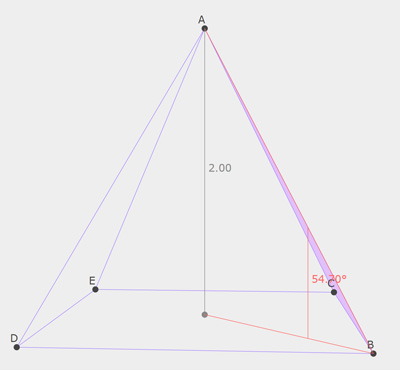
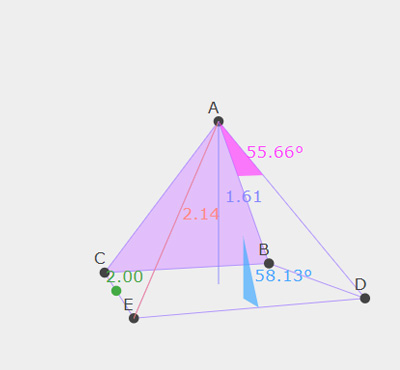
added 3d graphing, updated graph api, updated all samples, added more 3D samples.

diff --git a/ganja.js b/ganja.js
@@ -86,18 +86,18 @@
       static describe() { console.log(`Basis\n${basis}\nRemap${JSON.stringify(brm)}\nDual\n${drm}\nMetric\n${metric.slice(1,1+tot)}\nCayley\n${mulTable.map(x=>(x.map(x=>('           '+x).slice(-2-tot)))).join('\n')}`); }    
       toString() { var res=[]; for (var i=0; i<basis.length; i++) if (Math.abs(this[i])>1e-10) res.push(((this[i]==1)&&i?'':((this[i]==-1)&&i)?'-':(this[i].toFixed(10)*1))+(i==0?'':tot==1?'i':basis[i].replace('e','e_'))); return res.join('+').replace(/\+-/g,'-')||'0'; }
     // Parse expressions, translate functions and render graphs.
-      static graph(f,cvs,ww,hh) { if (!f) return; var origf=f;
+      static graph(f,options) { if (!f) return; var origf=f; options=options||{}; var ww=options.width, hh=options.height, cvs=options.canvas, project=(o)=>{ while (o.call) o=o(); return (tot==4 && (o.length==16))?(new Element([0,0,0,0,0,0,0,0,0,0,0,-5,0,0,1,0])).Vee((options.camera)?(options.camera.Mul(o).Mul(options.camera.Conjugate)):o).Wedge(new Element([0,-2,0,0,1,0,0,0,0,0,0,0,0,0,0,0])):o};
       // p2d SVG points/lines/rotations/translations/labels . 
-        if (!(f instanceof Function) || f.length===0) { var lx,ly,lr,color,res,anim=false;
+        if (!(f instanceof Function) || f.length===0) { var lx,ly,lr,color,res,anim=false,to2d=(tot==3)?[0,1,2,3,4,5,6,7]:[0,7,9,10,13,12,14,15];
           if (f instanceof Function) f=f();if (!(f instanceof Array)) f=[].concat.apply([],Object.keys(f).map((k)=>typeof f[k]=='number'?[f[k]]:[f[k],k])); 
           function build(f,or) { if (or && f && f instanceof Function) f=f(); lx=-2;ly=-1.85;lr=0;color='#444'; return new DOMParser().parseFromString(`<SVG viewBox="-2 -${2*(hh/ww||1)} 4 ${4*(hh/ww||1)}" style="width:${ww||512}px; height:${hh||512}px; background-color:#eee; user-select:none">
-           ${f.map((o,oidx)=>{  if(o==Element.graph && or!==false) { anim=true; return requestAnimationFrame(()=>{var r=build(origf,(!res)||(document.body.contains(res))).innerHTML; if (res) res.innerHTML=r; });} while (o instanceof Function) o=o(); if (o===undefined) return;
-             if (o instanceof Array)  { lx=ly=lr=0; o=o.map((x)=>x.call?x():x); o.forEach((o)=>{lx+=((drm[1]==6)?-1:1)*o[drm[2]]/o[drm[1]];ly+=o[drm[3]]/o[drm[1]]});lx/=o.length;ly/=o.length; return o.length>2?`<POLYGON STYLE="pointer-events:none; fill:${color};opacity:0.7" points="${o.map(o=>((drm[1]==6)?-1:1)*o[drm[2]]/o[drm[1]]+','+o[drm[3]]/o[drm[1]]+' ')}"/>`:`<LINE style="pointer-events:none" x1=${((drm[1]==6)?-1:1)*o[0][drm[2]]/o[0][drm[1]]} y1=${o[0][drm[3]]/o[0][drm[1]]} x2=${((drm[1]==6)?-1:1)*o[1][drm[2]]/o[1][drm[1]]} y2=${o[1][drm[3]]/o[1][drm[1]]} stroke-width="0.005" stroke="${color||'#888'}"/>`; }
+           ${f.map((o,oidx)=>{  if((o==Element.graph && or!==false)||(oidx==0&&options.animate&&or!==false)) { anim=true; requestAnimationFrame(()=>{var r=build(origf,(!res)||(document.body.contains(res))).innerHTML; if (res) res.innerHTML=r; }); if (!options.animate) return; } while (o instanceof Function) o=o(); o=(o instanceof Array)?o.map(project):project(o); if (o===undefined) return; 
+             if (o instanceof Array)  { lx=ly=lr=0; o=o.map((x)=>x.call?x():x); o.forEach((o)=>{lx+=((drm[1]==6||drm[1]==14)?-1:1)*o[drm[2]]/o[drm[1]];ly+=o[drm[3]]/o[drm[1]]});lx/=o.length;ly/=o.length; return o.length>2?`<POLYGON STYLE="pointer-events:none; fill:${color};opacity:0.7" points="${o.map(o=>((drm[1]==6||drm[1]==14)?-1:1)*o[drm[2]]/o[drm[1]]+','+o[drm[3]]/o[drm[1]]+' ')}"/>`:`<LINE style="pointer-events:none" x1=${((drm[1]==6||drm[1]==14)?-1:1)*o[0][drm[2]]/o[0][drm[1]]} y1=${o[0][drm[3]]/o[0][drm[1]]} x2=${((drm[1]==6||drm[1]==14)?-1:1)*o[1][drm[2]]/o[1][drm[1]]} y2=${o[1][drm[3]]/o[1][drm[1]]} stroke-width="0.005" stroke="${color||'#888'}"/>`; }
              if (typeof o =='string') { var res2=(o[0]=='_')?'':`<text x="${lx}" y="${ly}" font-family="Verdana" font-size="0.1" style="pointer-events:none" fill="${color||'#333'}" transform="rotate(${lr},0,0)">&nbsp;${o}&nbsp;</text>`; ly+=0.1; return res2; }
-             if (typeof o =='number') { color='#'+(o+(1<<25)).toString(16).slice(-6); return ''; }o=o.Normalized; var oi='test';
-             if (o.Blade(2).Length>0.001) { lx=o[drm[2]]/o[drm[1]]; if (drm[1]==6) lx*=-1; ly=o[drm[3]]/o[drm[1]]; lr=0;  var res2=`<CIRCLE onmousedown="this.parentElement.sel=${oidx}" cx="${lx}" cy="${ly}" r="0.03" fill="${color||'green'}"/>`; ly-=0.05; lx-=0.1; return res2; }
-             if (o.Blade(1).Length>0.001) { lx=0.5; ly=-o[1]; lr=-Math.atan2(o[2],o[3])/Math.PI*180; var res2=`<LINE style="pointer-events:none" x1=-10 y1=${ly} x2=10 y2=${ly} stroke-width="0.005" stroke="${color||'#888'}" transform="rotate(${lr},0,0)"/>`; ly-=0.05; return res2; }
-             if (o.e02**2+o.e01**2>0.001) { lr=0; ly+=0.05; lx+=0.1; var res2=`<LINE style="pointer-events:none" x1=${lx} y1=${ly} x2=${lx-o.e02} y2=${ly+o.e01} stroke-width="0.005" stroke="${color||'#888'}"/>`; ly=ly+o.e01/4*3-0.05; lx=lx-o.e02/4*3; console.log('a',lx,ly); return res2; }
+             if (typeof o =='number') { color='#'+(o+(1<<25)).toString(16).slice(-6); return ''; } /*o=o.Normalized;*/ var oi='test';
+             if (o[to2d[6]]**2        >0.001) { lx=o[drm[2]]/o[drm[1]]; if (drm[1]==6||drm[1]==14) lx*=-1; ly=o[drm[3]]/o[drm[1]]; lr=0;  var res2=`<CIRCLE onmousedown="this.parentElement.sel=${oidx}" cx="${lx}" cy="${ly}" r="0.03" fill="${color||'green'}"/>`; ly-=0.05; lx-=0.1; return res2; }
+             if (o[to2d[2]]**2+o[to2d[3]]**2>0.001) { var l=Math.sqrt(o[to2d[2]]**2+o[to2d[3]]**2); o[to2d[2]]/=l; o[to2d[3]]/=l; o[to2d[1]]/=l; lx=0.5; ly=((drm[1]==6)?-1:-1)*o[to2d[1]]; lr=-Math.atan2(o[to2d[2]],o[to2d[3]])/Math.PI*180; var res2=`<LINE style="pointer-events:none" x1=-10 y1=${ly} x2=10 y2=${ly} stroke-width="0.005" stroke="${color||'#888'}" transform="rotate(${lr},0,0)"/>`; ly-=0.05; return res2; }
+             if (o[to2d[4]]**2+o[to2d[5]]**2>0.001) { lr=0; ly+=0.05; lx+=0.1; var res2=`<LINE style="pointer-events:none" x1=${lx} y1=${ly} x2=${lx-o.e02} y2=${ly+o.e01} stroke-width="0.005" stroke="${color||'#888'}"/>`; ly=ly+o.e01/4*3-0.05; lx=lx-o.e02/4*3; console.log('a',lx,ly); return res2; }
             }).join()}`,'text/html').body.firstChild; };
           res=build(f); res.onmousemove=(e)=>{ if (res.sel===undefined || !e.buttons) return; var x=(e.clientX-res.getBoundingClientRect().left)/(res.getBoundingClientRect().width/4||128)-2,y=((e.clientY-res.getBoundingClientRect().top)/(res.getBoundingClientRect().height/4||128)-2)*(res.getBoundingClientRect().height/res.getBoundingClientRect().width||1); f[res.sel][drm[2]]=(drm[1]==6)?-x:x; f[res.sel][drm[3]]=y; f[res.sel][drm[1]]=1; if (!anim) res.innerHTML=build(f).innerHTML; }; return res;
         }  

diff --git a/examples/example_pga3d_points_and_lines.html b/examples/example_pga3d_points_and_lines.html
@@ -3,37 +3,49 @@
 </HEAD>
 <BODY><SCRIPT>
 // Create a Clifford Algebra with 3,0,1 metric. 
-var d3 = Algebra(3,0,1);
-
-// Ganja.js only supoprts native 2D graphing. So we use a projective 2D algebra and implement a camera projection that rotates around the y axis :
-var d2      = Algebra(2,0,1), 
-    project = d2.inline(P=>(P instanceof Array)?P.map(project):(P instanceof d3)?P.e01*-1e0+(P.e13)*1e1+(P.e12)*1e2+P.e012*1e02+P.e013*1e01+P.e123*1e12:P),
-    view    = d3.inline(P=>(P instanceof Array)?P.map(view):(P instanceof d3)?((1e123+5e023)&P)^(1e1-2e0):P),
-    model   = d3.inline(P=>(P instanceof Array)?P.map(model):(P instanceof d3)?((Math.cos(performance.now()/2000)+Math.sin(performance.now()/2000)*(1e13))>>>P):P),
-    graph   = (x)=>d2.graph(()=>[d2.graph].concat(x.map(x=>(x instanceof Function)?y=>project(view(model(x()))):project(view(model(x))))));
+Algebra(3,0,1).inline(()=>{ 
     
-// Now we display some 3D points, lines and polygons.
-d3.inline(()=>{ 
-    // Helper to create points.
-    var point = (x,y,z)=>1e123-x*1e012+y*1e013+z*1e023;     
+    // We work in dual space. Our 1-blade's are dual-vectors (aka functionals of the form ax + by + cz + dw = 0).
+    // The four basis functionals are thus (x=0, y=0, z=0, w=0). In three dimensions these represent the yz, xz, xy and
+    // ideal plane. 
+    
+    // Specify a point directly (trivectors specified with overloaded e-notation.)
+    var point = (x,y,z)=>1e123-x*1e012+y*1e013+z*1e023;
+    
+    // Lines can be defined using plucker coordinates
+    var line = (px,py,pz,dx,dy,dz)=>px*1e01+py&1e02+pz*1e03+dx*1e12+dy*1e13+dz*1e23;
+
+    // Planes can be defined directly using e0,e1,e2,e3
+    var plane = (a,b,c,d)=>d*1e0+a*1e1+b*1e2+c*1e3;
+    
+    // Useful joins
+    var line_from_points  = (P1,P2)=>P1.Normalized&P2.Normalized,
+        plane_from_points = (P1,P2,P3)=>P1&P2&P3,
+        plane_from_point_and_line = (P,L)=>P&L;
+        
+    // Usefull meets
+    var line_from_planes  = (p1,p2)=>p1^p2,
+        point_from_planes = (p1,p2,p3)=>p1^p2^p3,
+        point_from_line_and_plane = (L,P)=>L^P;
     
     // Create 5 points and some joining lines.
-    var A=point(0,-1,0), B=point(1,1,-1), C=point(-1,1,-1), D=point(1,1,1), E=point(-1,1,1),
-        ab=A&B, bc=B&C, ca=C&A, ad=A&D, bd=B&D, cd=C&D;
-        
-    // An animated plane.    
-    var plane = ()=>Math.sin(performance.now()/1000)*1e0 + 1e2;
+    var A=point(0,-1,0), B=point(1,1,-1), C=point(-1,1,-1), D=point(1,1,1), E=point(-1,1,1), 
+        centroid=A+B+C+D+E,
+        camera=0e0;
     
     // Graph the 3D items
-    document.body.appendChild(graph(["3D PGA",
-      0xddaaff,ab,bc,ca,ad,bd,cd,[A,B,C],                          // graph some lines and one face of the pyramid
-      0xAA88FF,[A,B],[A,C],[A,D],[B,C],[B,D],[C,E],[A,E],[E,D],    // graph all edges
-      0x444444,A,"A",B,"B",C,"C",D,"D",E,"E",                      // graph all vertices
-      0x884444,A<<(B&C&E),"A.(B&C&E)",                             // line throu a and the floor plane of the pyramid
-      0x448844,A+B+C+D+E,"G=A+B+C+D+E",                            // G = center of gravity  
-      0x444488,(A+B+C+D+E)<<(A&B&C),"h=G.(A&B&C)",                 // line between CoG and ABC plane
-      0x4444ff,((A+B+C+D+E)<<(A&B&C))^(A&B&C),"I=h^(A&B&C)",       // projection CoG  onto ABC plane
-      0xaaaaff,()=>[A&B,A&C,A&E,A&D].map(x=>x^plane)               // wedge with the plane
-    ])); 
+    document.body.appendChild(this.graph(()=>{
+      var time=performance.now()/4000;    
+      camera.set(Math.cos(time)+Math.sin(time)*1e13);                      // rotate around Y 
+      return [0xddaaff,[A,B,C],                                            // graph on face
+              0xAA88FF,[A,B],[A,C],[A,D],[B,C],[B,D],[C,E],[A,E],[E,D],    // graph all edges
+              0x444444,A,"A",B,"B",C,"C",D,"D",E,"E",                      // graph all vertices
+              0xFF8888,C+E,centroid,"sum of points",
+              0x8888FF,line_from_points(centroid,C+E),"line from points ..",
+              0x44AA44,line_from_planes(A&B&C,B&C&D),"line from planes ..",
+              0x4488FF,point_from_line_and_plane(line_from_points(centroid,C+E),A&D&B),"point from line and plane ..",
+              0xFFAA66,(B&D)+(C&E),"sum of lines"
+             ];
+    },{animate:true,camera})); 
 })();
 </SCRIPT></BODY>

diff --git a/examples/example_pga3d_distances_and_angles.html b/examples/example_pga3d_distances_and_angles.html
@@ -3,32 +3,50 @@
 </HEAD>
 <BODY><SCRIPT>
 // Create a Clifford Algebra with 3,0,1 metric. 
-var d3 = Algebra(3,0,1);
+Algebra(3,0,1).inline(()=>{ 
+    
+  // Specify a point directly (trivectors specified with overloaded e-notation.)
+  var point = (x,y,z)=>1e123-x*1e012+y*1e013+z*1e023;
+  
+  // Lines can be defined using plucker coordinates
+  var line = (px,py,pz,dx,dy,dz)=>px*1e01+py&1e02+pz*1e03+dx*1e12+dy*1e13+dz*1e23;
 
-// Ganja.js only supoprts native 2D graphing. So we use a projective 2D algebra and implement a camera projection that rotates around the y axis :
-var d2      = Algebra(2,0,1), 
-    project = d2.inline(P=>(P instanceof Array)?P.map(project):(P instanceof d3)?P.e01*-1e0+(P.e13)*1e1+(P.e12)*1e2+P.e012*1e02+P.e013*1e01+P.e123*1e12:P),
-    view    = d3.inline(P=>(P instanceof Array)?P.map(view):(P instanceof d3)?((1e123+5e023)&P)^(1e1-2e0):P),
-    model   = d3.inline(P=>(P instanceof Function)?model(P()):(P instanceof Array)?P.map(model):(P instanceof d3)?((Math.cos(performance.now()/2000)+Math.sin(performance.now()/2000)*(1e13))>>>P):P),
-    graph   = (x)=>d2.graph(()=>[d2.graph].concat(x.map(x=>(x instanceof Function)?y=>project(view(model(x()))):project(view(model(x))))));
-    
-// Now we display some 3D points, lines and polygons.
-d3.inline(()=>{ 
-    
-    // Helper to create points.
-    var point = (x,y,z)=>1e123-x*1e012+y*1e013+z*1e023;
-    var AngleLines = (PI,EP)=>Math.acos((PI.Normalized<<EP.Normalized).Length)*180/Math.PI;
-    
-    // Create 5 points and some joining lines.
-    var A=()=>point(0,Math.sin(performance.now()/1000),0), B=point(1,1,-1), C=point(-1,1,-1), D=point(1,1,1), E=point(-1,1,1);
-    
-    // Graph the 3D items
-    document.body.appendChild(graph(["3D PGA",
-      0xddaaff,()=>[A,B,C],
-      0xAA88FF,()=>[A,B],()=>[A,C],()=>[A,D],()=>[A,E],[B,C],[B,D],[C,E],[E,D],
-      0x444444,A,"A",B,"B",C,"C",D,"D",E,"E",
-      0x888888,B+E,[A,B+E],()=>(A&(B+E).Normalized).Length.toFixed(2),
-      0xFF6666,[A,B],[B,B+E],()=>[A+2*B,E+5*B],()=>(AngleLines((A&B),(B&(B+E))).toFixed(2))+"&deg;"
-    ])); 
+  // Planes can be defined directly using e0,e1,e2,e3
+  var plane = (a,b,c,d)=>d*1e0+a*1e1+b*1e2+c*1e3;
+  
+  // Useful distances
+  var dist_pp = (P1,P2)=>(P1.Normalized&P2.Normalized).Length,    // point to point
+      dist_pP = (P,p)=>(P.Normalized&p.Normalized).Length,        // point to plane
+      dist_ll = (l1,l2)=>(!(l1.Normalized*l2.Normalized)).Length; // line to line
+  
+  // Useful angles
+  var angle_pp = (p1,p2)=>Math.acos(p1.Normalized<<p2.Normalized)*180/Math.PI, // Angle between planes
+      angle_ll = (l1,l2)=>Math.acos(l1.Normalized<<l2.Normalized)*180/Math.PI; // Angle between lines 
+  
+  // Create 5 points.
+  var A=point(0,-1,0), B=point(1,1,-1), C=point(-1,1,-1), D=point(1,1,1), E=point(-1,1,1), 
+  
+  // Our ground plane
+      a=B&C&D,
+  
+  // Our camera position and orientation
+      camera=0e0;
+  
+  // Graph the 3D items
+  document.body.appendChild(this.graph(()=>{
+    var time=performance.now()/4000;    
+    A=point(0,Math.sin(time*4),0);
+    camera.set(Math.cos(time)+Math.sin(time)*1e13);                      // rotate around Y 
+    return [0xddaaff,[A,B,C],                                            // graph on face
+            0xAA88FF,[A,B],[A,C],[A,D],[B,C],[B,D],[C,E],[A,E],[E,D],    // graph all edges
+            0x444444,A,"A",B,"B",C,"C",D,"D",E,"E",                      // graph all vertices
+            0xFF8888,[A,E],dist_pp(A,E).toFixed(2),                      // distance A to E
+            0x8888FF,[A,B+E],dist_pP(A,a).toFixed(2),                    // distance A to a
+            0x44aa44,C+E,dist_ll(C&E,D&B).toFixed(2),                    // distance CE to DB
+            0x44aaff,[A+D+E,B+C+5*D+5*E,D+E],(angle_pp(A&E&D,a).toFixed(2))+"°",   // angle planes.
+            0xff44ff,[A,2*A+D,2*A+B],(angle_ll(A&D,B&A).toFixed(2))+"°"
+           ];
+  },{animate:true,camera})); 
+  
 })();
 </SCRIPT></BODY>

diff --git a/examples/coffeeshop.html b/examples/coffeeshop.html
@@ -1,6 +1,7 @@
 <HEAD>
+  <link href="https://fonts.googleapis.com/css?family=Encode+Sans+Condensed" rel="stylesheet">
   <STYLE>
-    body    { margin: 0; background-color:#EEE; position:relative; display:flex; flex-direction:column; font-family:-apple-system, BlinkMacSystemFont, "Segoe UI", Helvetica, Arial, sans-serif, "Apple Color Emoji", "Segoe UI Emoji", "Segoe UI Symbol"; }
+    body    { margin: 0; background-color:#EEE; position:relative; display:flex; flex-direction:column; font-family: 'Encode Sans Condensed', sans-serif; }
     #SAMPLE { width:33%; min-width: 512px; border: 0; min-height:80% }
     #SOURCE { margin:0; flex-grow:1; }
     #HEADER { position:relative; display:flex; flex-flow:wrap; z-index:10 }
@@ -58,7 +59,7 @@
     <PRE ID="SOURCE"></PRE>
   </DIV>
   <SCRIPT>
-    var examples = ["complex_mandelbrot","quaternion_hue","quaternion_mandelbrot","pga2d_points_and_lines","pga2d_distances_and_angles","pga2d_project_and_reject","pga2d_rotors_and_translators","pga2d_isometries", "pga2d_inverse_kinematics","pga2d_separating_axis","pga2d_pose_estimation","pga2d_euler_line","pga2d_desargues_theorem","pga3d_points_and_lines","pga3d_distances_and_angles","game_wedge"]
+    var examples = ["complex_mandelbrot","quaternion_hue","quaternion_mandelbrot","pga2d_points_and_lines","pga2d_distances_and_angles","pga2d_project_and_reject","pga2d_rotors_and_translators","pga2d_isometries", "pga2d_inverse_kinematics","pga2d_separating_axis","pga2d_pose_estimation","pga2d_euler_line","pga2d_desargues_theorem","pga3d_points_and_lines","pga3d_distances_and_angles","pga3d_rotors_and_translators","game_wedge"]
     
     var $ = document.getElementById.bind(document);
     

diff --git a/examples/example_pga3d_rotors_and_translators.html b/examples/example_pga3d_rotors_and_translators.html
@@ -1,0 +1,43 @@
+<HEAD>
+  <SCRIPT SRC="../ganja.js"></SCRIPT>
+</HEAD>
+<BODY><SCRIPT>
+// Create a Clifford Algebra with 3,0,1 metric. 
+Algebra(3,0,1).inline(()=>{ 
+
+  // Specify a point directly (trivectors specified with overloaded e-notation.)
+  var point = (x,y,z)=>1e123-x*1e012+y*1e013+z*1e023;
+  
+  // Lines can be defined using plucker coordinates
+  var line = (px,py,pz,dx,dy,dz)=>px*1e01+py&1e02+pz*1e03+dx*1e12+dy*1e13+dz*1e23;
+
+  // Planes can be defined directly using e0,e1,e2,e3
+  var plane = (a,b,c,d)=>d*1e0+a*1e1+b*1e2+c*1e3;
+  
+  // Rotations can be specified through exponentiation (angle around line).
+  var rotor = (line,angle)=>Math.cos(angle/2) + Math.sin(angle/2)*line.Normalized;
+    
+  // Translations can similarly be expressed through exponentiation.
+  var translator = (line,distance)=>1+0.5*distance*(line.Normalized*1e0123);
+
+  // Create 5 points.
+  var A=point(0,0,0), B=point(0,1,1), C=point(0,1,0), D=point(1,1,1), E=point(-1,1,1), 
+  
+  // Our ground plane
+      a=B&C&D,
+  
+  // Our camera position and orientation
+      camera=0e0;
+  
+  // Graph the 3D items
+  document.body.appendChild(this.graph(()=>{
+    var time=performance.now()/4000;    
+    var D=rotor(A&B,time*10)>>>C;
+    camera.set(rotor(1e13,time));                      // rotate around Y 
+    return [A,"A",B,"B",A&B,E,
+            0xFF8888,[A,B,E],
+            0x444444,[A+0.9*B,(A+0.8*B)+2*D,A+D,D,D+B,2*D+(B+0.8*A),B+0.9*A].map(x=>translator(A&B,Math.sin(time*5))>>>x),
+           ];
+  },{animate:true,camera})); 
+})();
+</SCRIPT></BODY>

diff --git a/examples/example_pga2d_separating_axis.html b/examples/example_pga2d_separating_axis.html
@@ -36,6 +36,6 @@ Algebra(2,0,1).inline(()=>{
   document.body.appendChild(this.graph(()=>{
     pa[4] = -0.2+(0.3-(performance.now()*0.0001%2));
     var a=ngon(pa,3,0.65,pa.e01*10), b=ngon(pb,6,0.5), h=sat(b,a);
-    return [0xcccccc,h,h?0x88ff88:0xffaaaa,a,b,0x444444,pa,pb,this.graph]}));
+    return [0xcccccc,h,h?0x88ff88:0xffaaaa,a,b,0x444444,pa,pb]},{animate:true}));
 })();
 </SCRIPT></BODY>

diff --git a/examples/example_pga2d_pose_estimation.html b/examples/example_pga2d_pose_estimation.html
@@ -37,7 +37,7 @@ Algebra(2,0,1).inline(()=>{
       if (s>=2) res = res.concat([0x8888ff,CBA,CBB,CBC]); 
       if (s>=3) res = res.concat([0x0000ff,CBA^CAA,CBB^CAB,CBC^CAC]); 
       if (s>=4) res = res.concat([[CBA^CAA,CBB^CAB],[CBA^CAA,CBC^CAC]])
-      return res.concat(this.graph);
-  }));
+      return res;
+  },{animate:true}));
 })();
 </SCRIPT></BODY>

diff --git a/examples/example_pga2d_distances_and_angles.html b/examples/example_pga2d_distances_and_angles.html
@@ -39,7 +39,6 @@ Algebra(2,0,1).inline(()=>{
     0xff4444, AB, AtoB, BC, BtoC, CA, CtoA,         // render edges and lengths.
     0x444444, A, CAtoAB, B, ABtoBC, C, CAtoBC,      // render verts and angles
     0x8888ff, [B,()=>(B<<CA)*CA], BtoCA, 
-    this.graph // tell it to animate .. 
-  ]));
+  ],{animate:true}));
 })();
 </SCRIPT></BODY>

diff --git a/examples/example_pga2d_rotors_and_translators.html b/examples/example_pga2d_rotors_and_translators.html
@@ -33,7 +33,6 @@ Algebra(2,0,1).inline(()=>{
   // Graph it
   document.body.appendChild(this.graph([
     "Versors", ()=>[tr>>>A,rt>>>B], ()=>tr>>>A, "tr>>>A", ()=>rt>>>B, "rt>>>B",
-    this.graph
-  ]));
+  ],{animate:true}));
 })();
 </SCRIPT></BODY>

diff --git a/README.md b/README.md
@@ -234,8 +234,14 @@ Mandelbrot with Quaternion Hue colorisation<BR>
 Quaternion color rotations<BR>
 <A HREF="https://enkimute.github.io/ganja.js/examples/coffeeshop.html#quaternion_hue"               TARGET="_blank" TITLE="Quaternion Hue Rotations"><IMG SRC="images/quaternion_hue.jpg"/></A>
 <TD ALIGN=CENTER>
+PGA3D Points and Lines<BR>
+<A HREF="https://enkimute.github.io/ganja.js/examples/coffeeshop.html#pga3d_points_and_lines"       TARGET="_blank" TITLE="PGA3D Points and Lines"><IMG SRC="images/pga3d_points_and_lines.jpg"/></A>
+<TR><TD ALIGN=CENTER>
 PGA3D Distances and Angles<BR>
 <A HREF="https://enkimute.github.io/ganja.js/examples/coffeeshop.html#pga3d_distances_and_angles"   TARGET="_blank" TITLE="PGA3D Distances and Angles"><IMG SRC="images/pga3d_distances_and_angles.jpg"/></A>
+<TD ALIGN=CENTER>
+PGA2D Distances and Angles<BR>
+<A HREF="https://enkimute.github.io/ganja.js/examples/coffeeshop.html#pga3d_rotors_and_translators" TARGET="_blank" TITLE="PGA3D Rotors and Translators"><IMG SRC="images/pga3d_rotors_and_translators.jpg"/></A>
 <TR><TD ALIGN=CENTER>
 PGA2D Points and Lines<BR>
 <A HREF="https://enkimute.github.io/ganja.js/examples/coffeeshop.html#pga2d_points_and_lines"       TARGET="_blank" TITLE="PGA2D Points and Lines"><IMG SRC="images/pga2d_points_and_lines.jpg"/></A>
